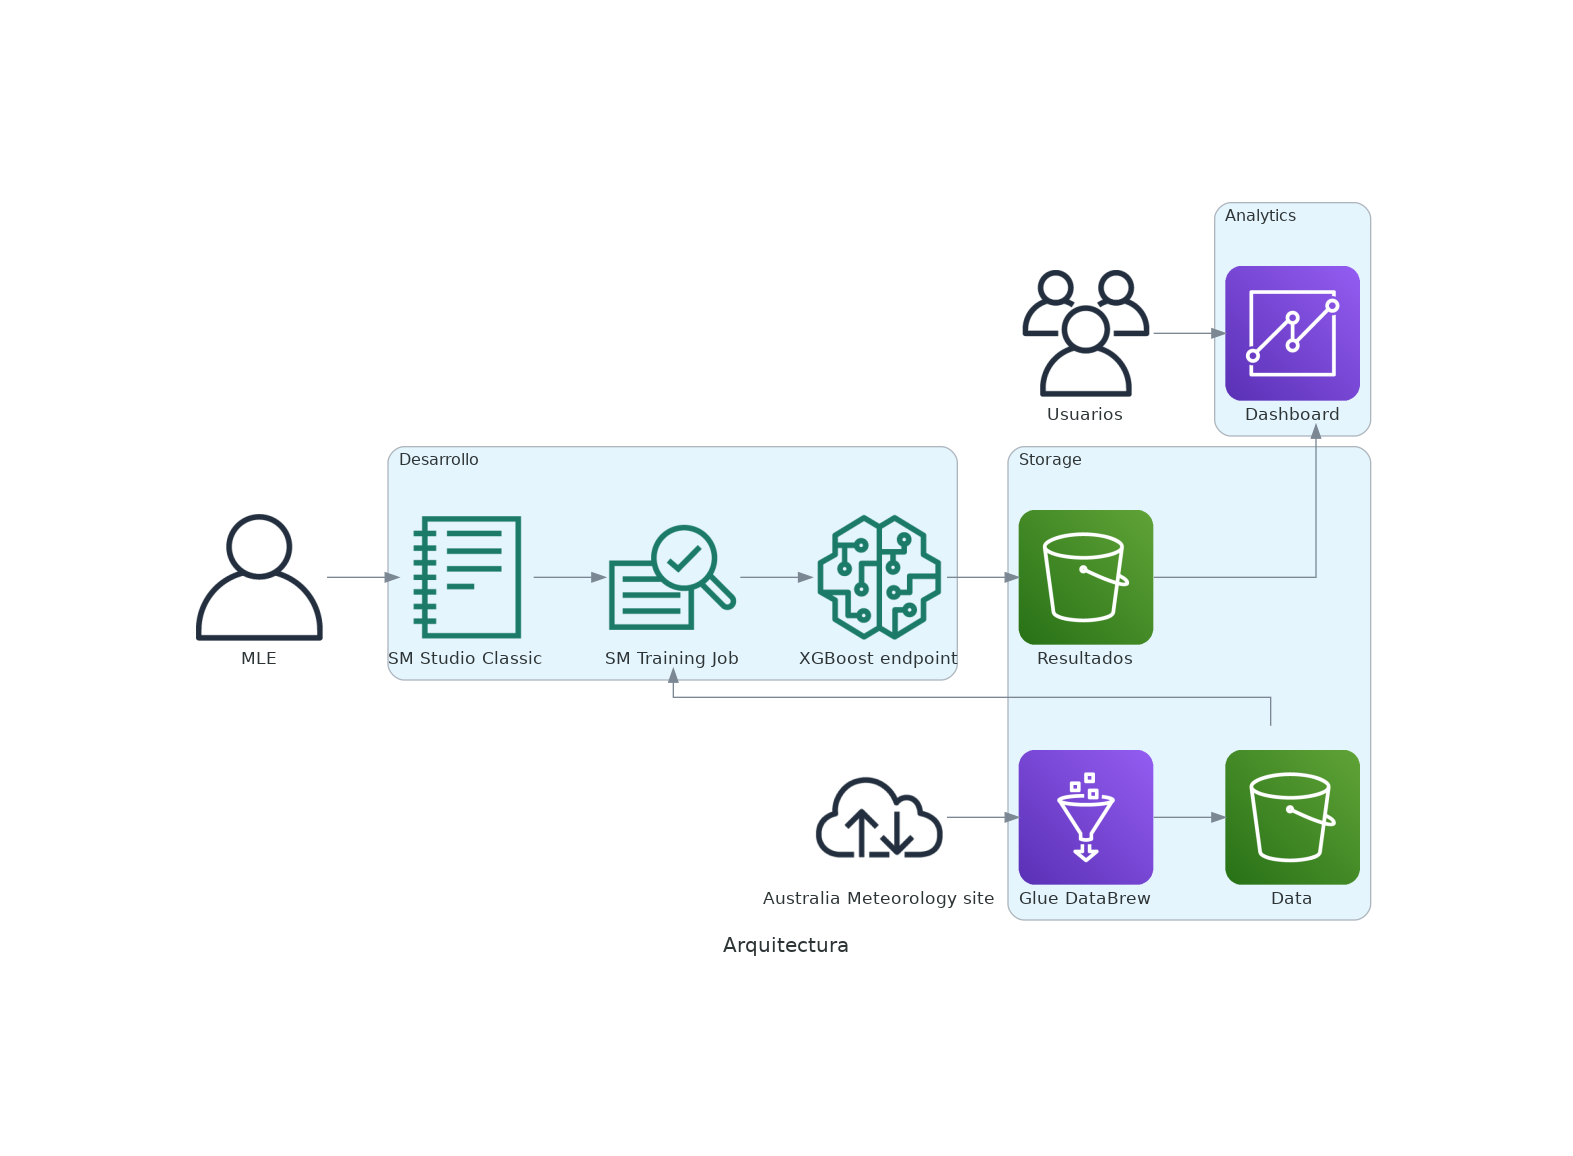
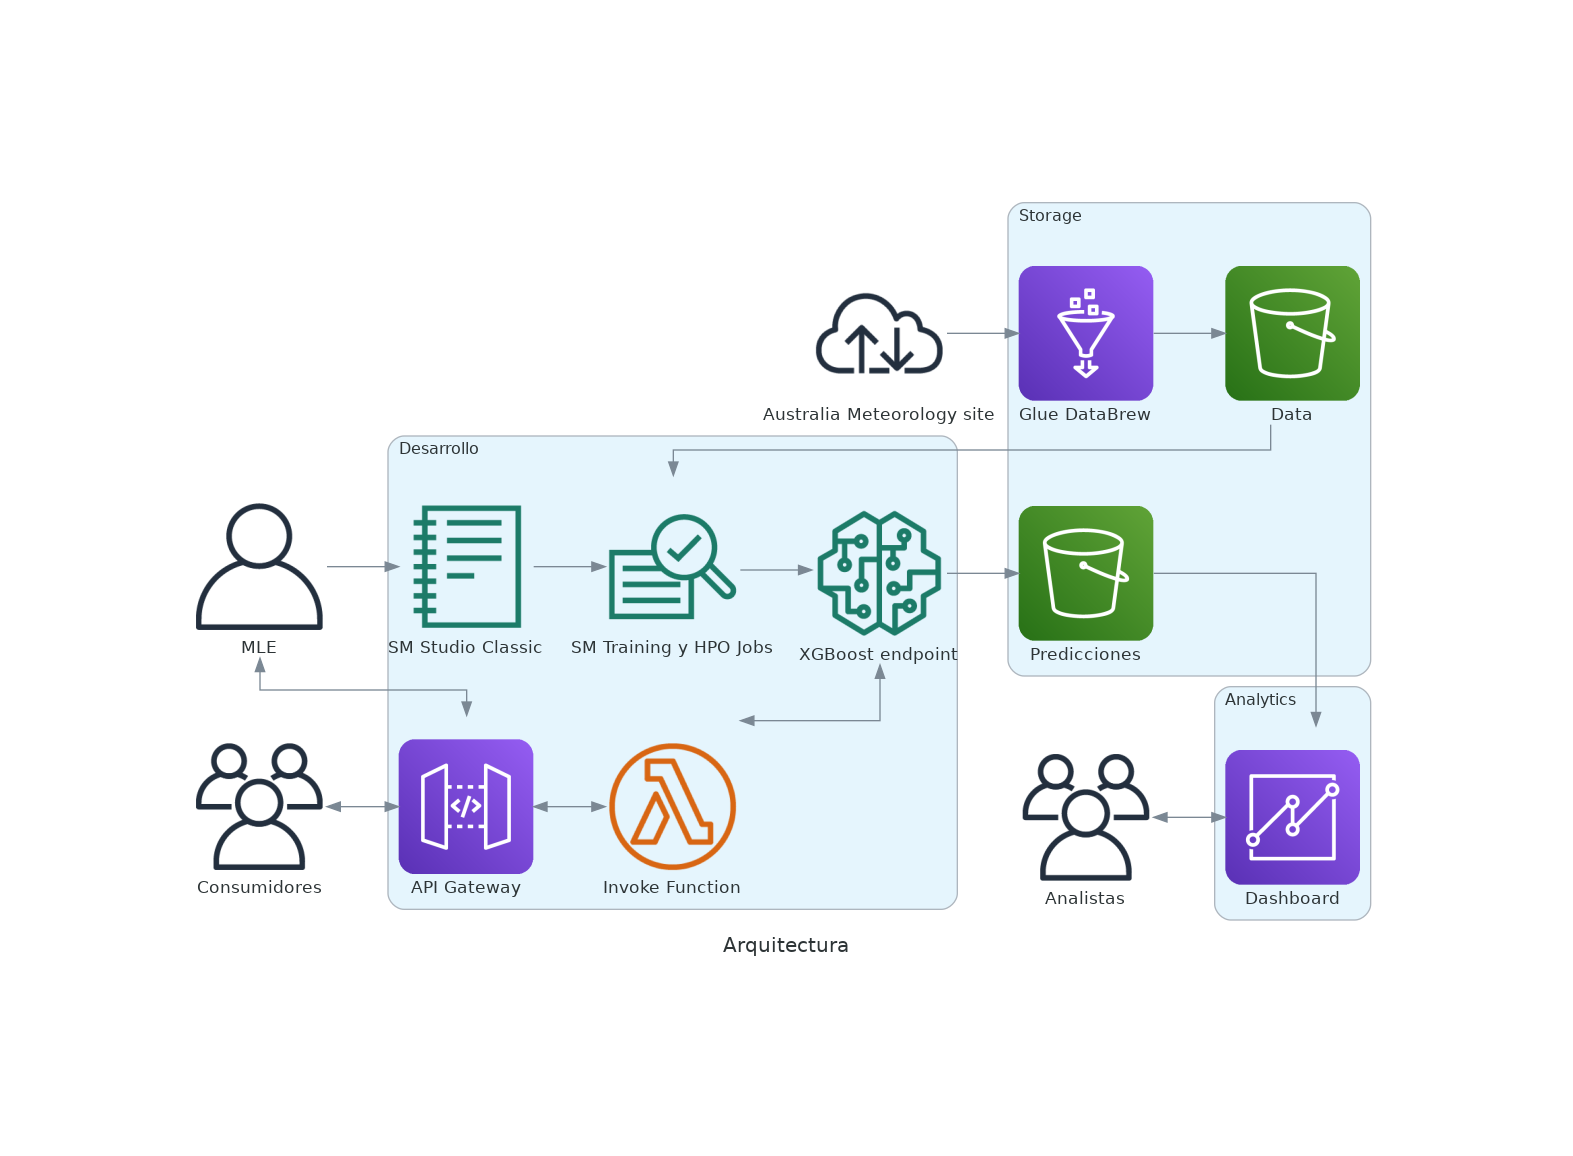
update readme and architecture diagram

Changed region(s): [[0.1246, 0.436, 0.8722, 0.8097], [0.2492, 0.1557, 0.8722, 0.4048], [0.1246, 0.436, 0.2181, 0.5917]]

diff --git a/arquitectura.py b/arquitectura.py
@@ -1,32 +1,39 @@
 """Script para la creacion del diagrama de la arquitectura."""
 
-from diagrams import Diagram, Cluster
+from diagrams import Diagram, Cluster, Edge
 from diagrams.aws.analytics import Glue, Quicksight
+from diagrams.aws.compute import LambdaFunction
 from diagrams.aws.general import InternetAlt2, User, Users
 from diagrams.aws.ml import SagemakerNotebook, SagemakerTrainingJob, SagemakerModel
+from diagrams.aws.network import APIGateway
 from diagrams.aws.storage import S3
 
 with Diagram("Arquitectura", show=False):
-    users = Users("Usuarios")
-    employee = User("MLE")
+    consumers = Users("Consumidores")
+    analysts = Users("Analistas")
+    mle = User("MLE")
 
     source = InternetAlt2("Australia Meteorology site")
 
     with Cluster("Desarrollo"):
         sm_note = SagemakerNotebook("SM Studio Classic")
-        sm_tjob = SagemakerTrainingJob("SM Training Job")
+        sm_tjob = SagemakerTrainingJob("SM Training y HPO Jobs")
         sm_model = SagemakerModel("XGBoost endpoint")
+
+        lambda_f = LambdaFunction("Invoke Function")
+        api_gw = APIGateway("API Gateway")
 
     with Cluster("Storage"):
         data_s3 = S3("Data")
         glue = Glue("Glue DataBrew")
-        results_s3 = S3("Resultados")
+        results_s3 = S3("Predicciones")
 
     with Cluster("Analytics"):
         qs = Quicksight("Dashboard")
 
-    employee >> sm_note >> sm_tjob >> sm_model
-    users >> qs
+    mle >> sm_note >> sm_tjob >> sm_model
+    (consumers, mle) >> Edge() << api_gw >> Edge() << lambda_f >> Edge() << sm_model
+    analysts >> Edge() << qs
 
     source >> glue >> data_s3 >> sm_tjob
     sm_model >> results_s3 >> qs

diff --git a/README.md b/README.md
@@ -4,29 +4,15 @@
 
 Alumno: Scasso, Facundo M.
 
-Resolución del TP para el curso _ITBA MLE en AWS_.
+Resolución del TP para el curso _ITBA MLE en AWS_. Junto a la entrega de este repositorio se adjunta un archivo PDF con el paso a paso de la resolución.
 
-## Temática seleccionada
-
-Context
-
-Ever wondered if you should carry an umbrella tomorrow? With this dataset, you can predict next-day rain by training classification models on the target variable RainTomorrow.
-Content
-
-This dataset comprises about 10 years of daily weather observations from numerous locations across Australia.
-
-RainTomorrow is the target variable to predict. It answers the crucial question: will it rain the next day? (Yes or No).
-This column is marked 'Yes' if the rain for that day was 1mm or more.
+## Dataset
 
 [Link](https://www.kaggle.com/datasets/jsphyg/weather-dataset-rattle-package) a la data utilizada para el proyecto (Copyright Commonwealth of Australia 2010, Bureau of Meteorology).
 
-## Código
+## Arquitectura
 
-...
-
-## Stack tecnológico
-
-...
+<img class="center" src="arquitectura.png" alt="Arquitectura de la solución"></img>
 
 ## Licencia
 
